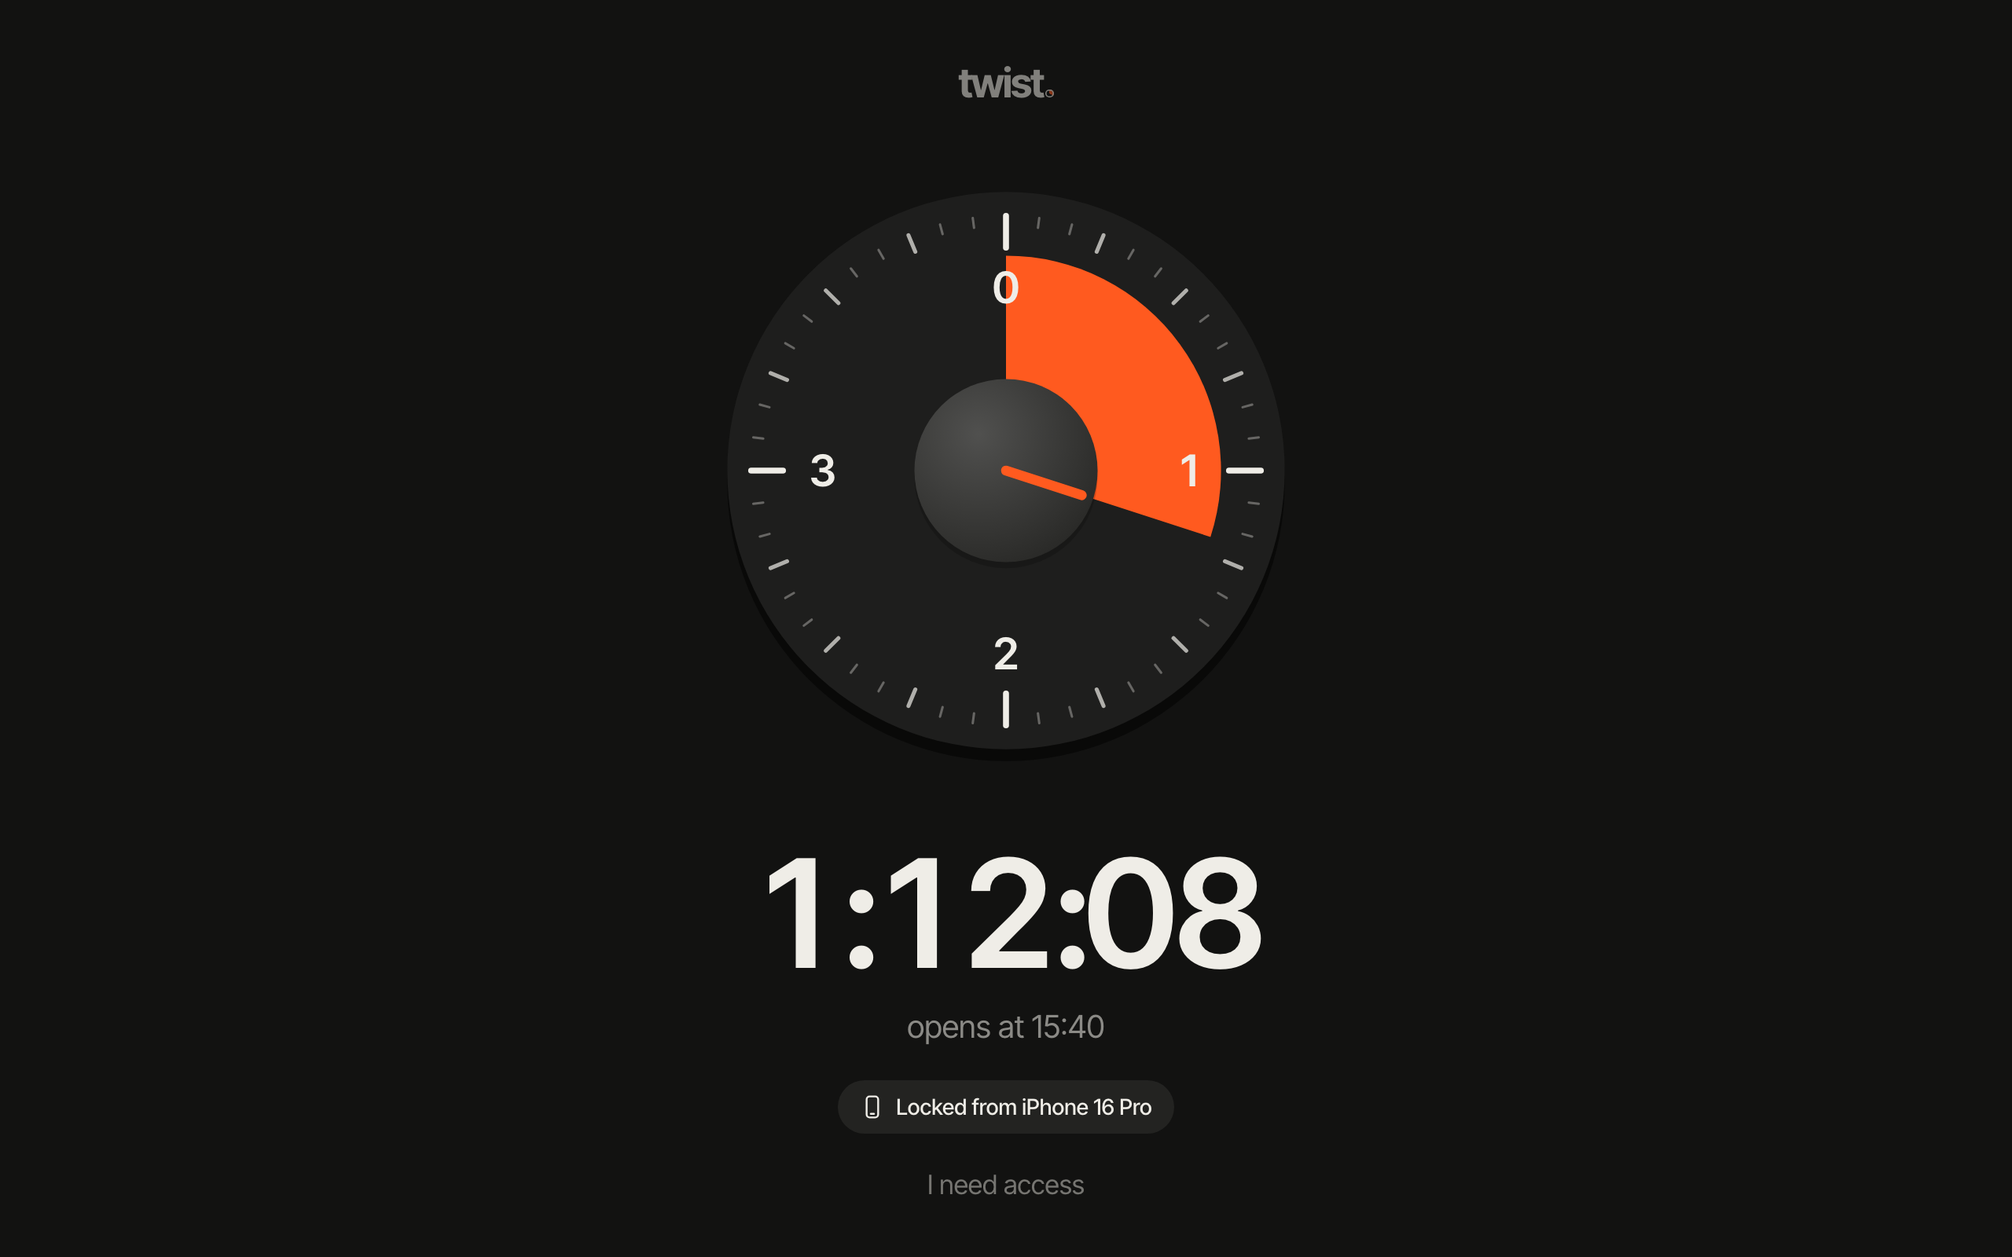
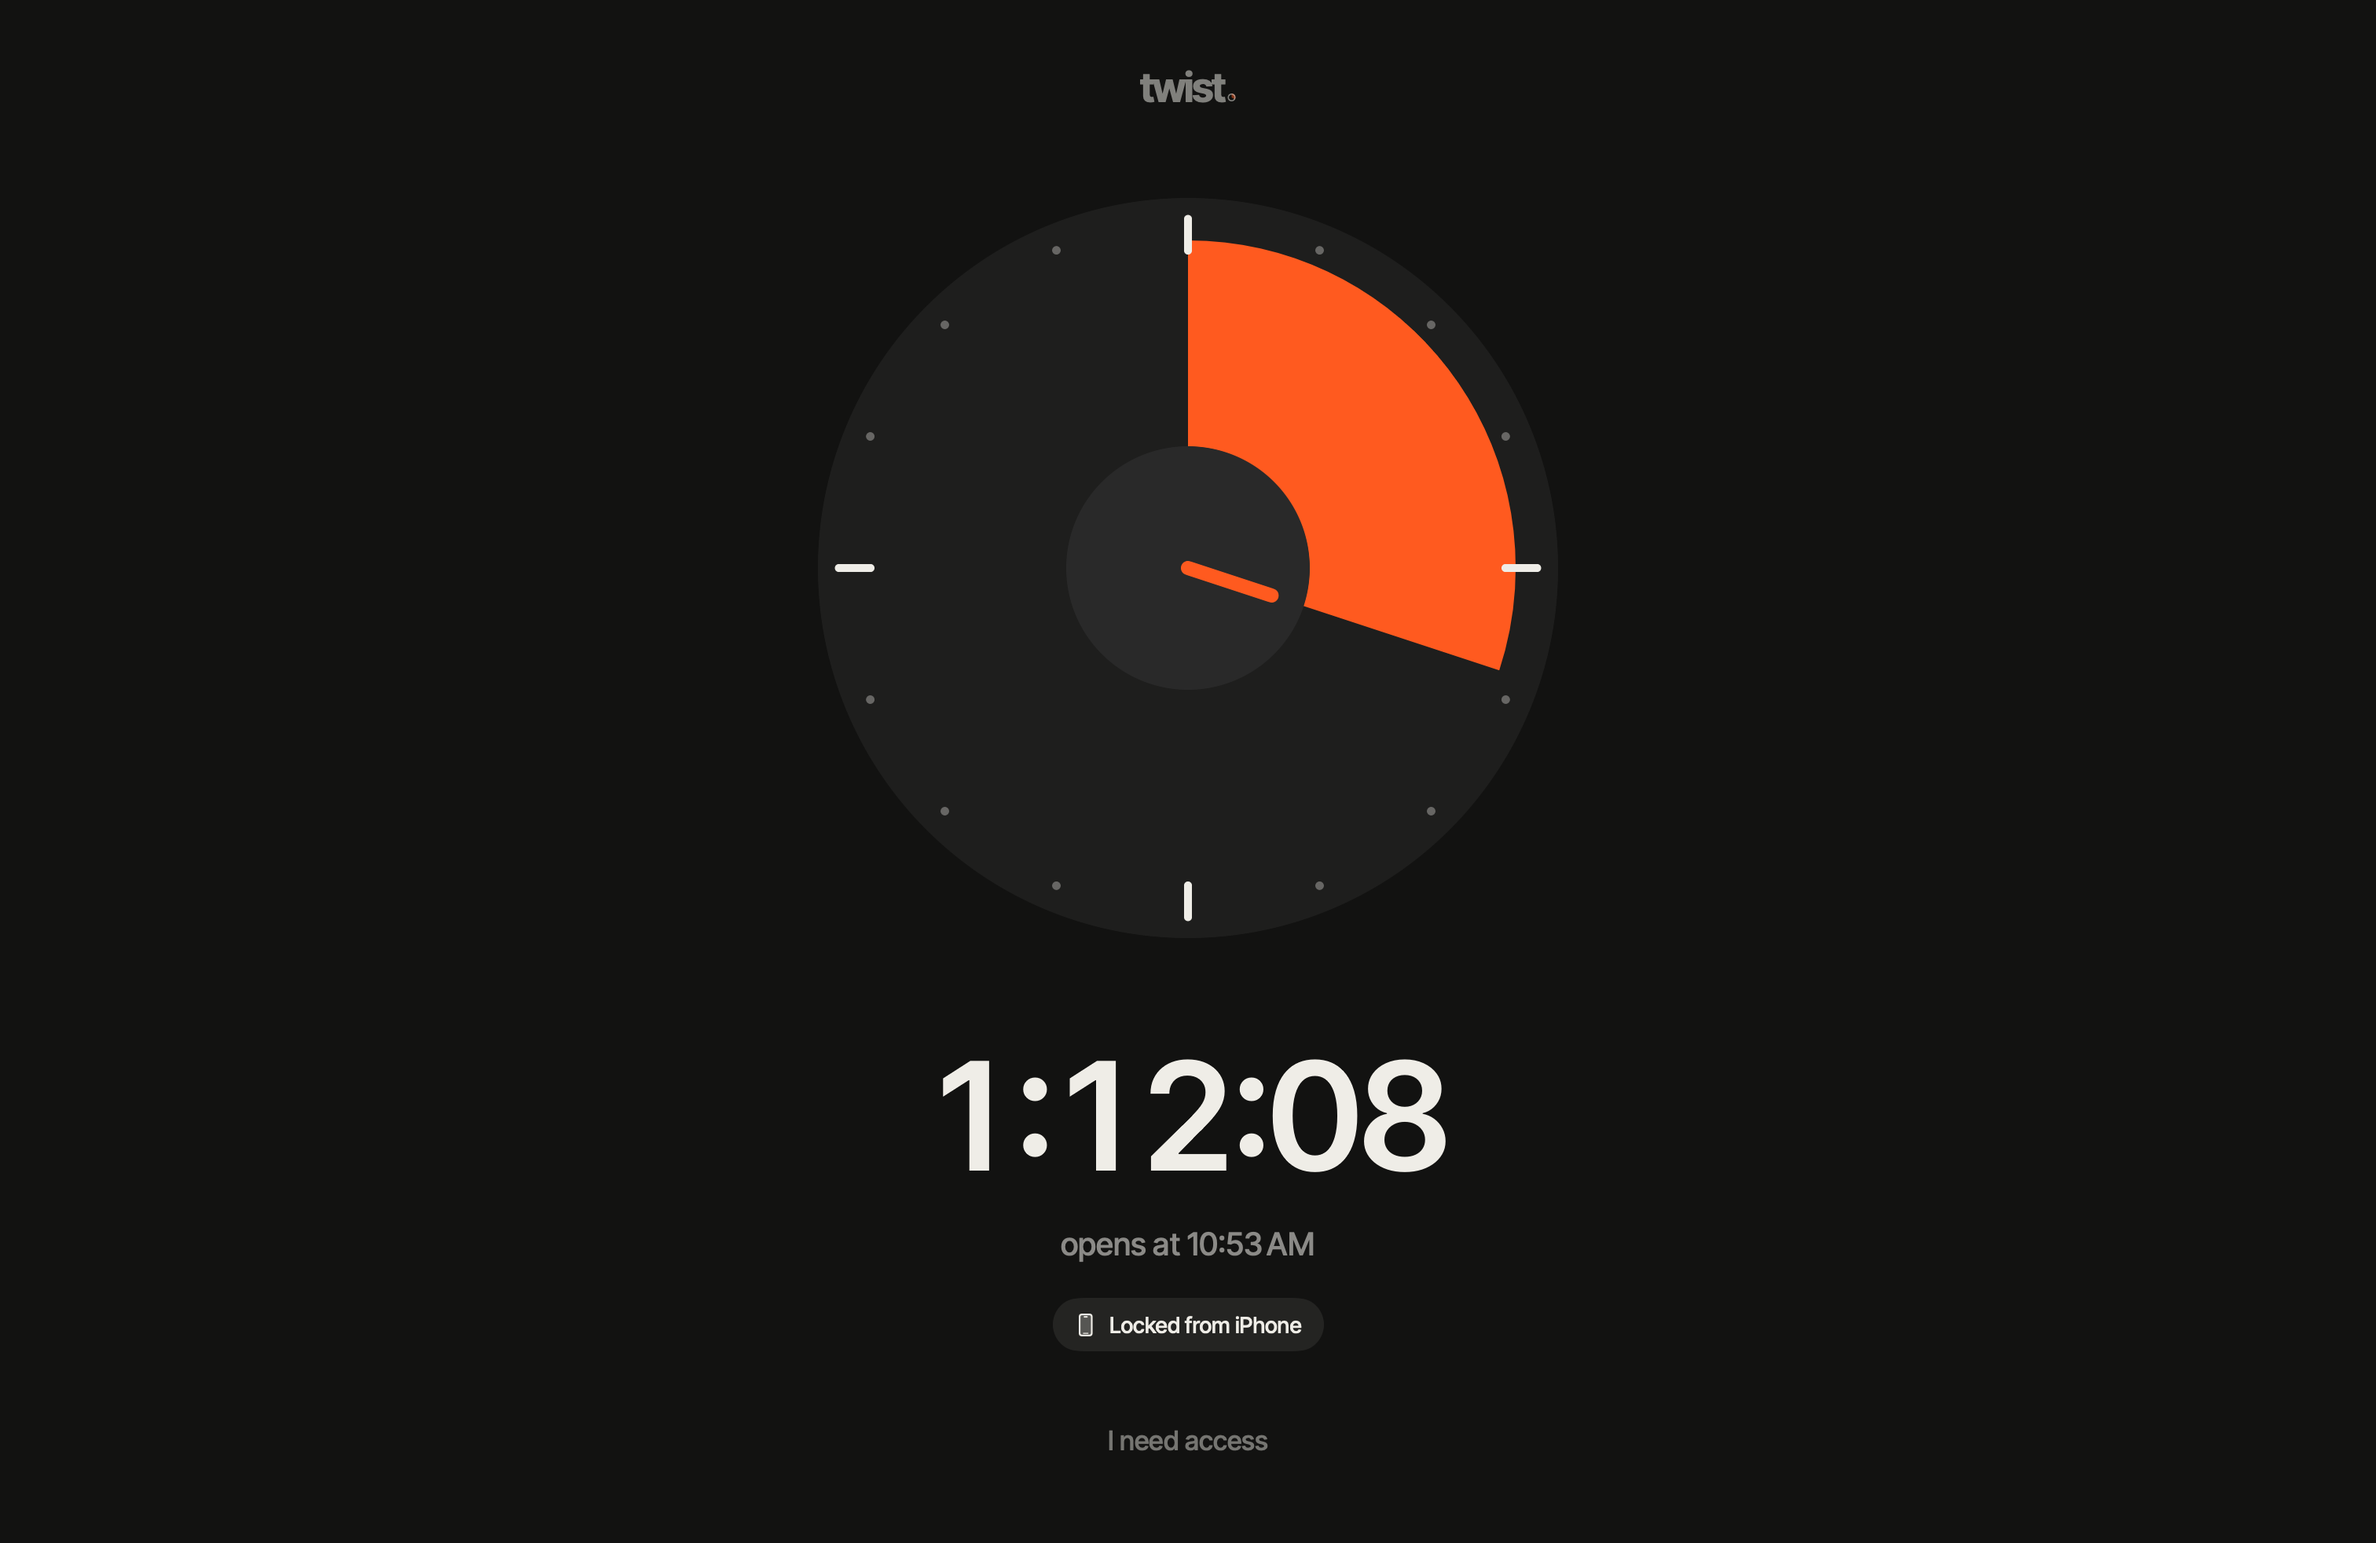
README: real app screenshots with made-up data, cross-device section, build notes
Replace the board renders in docs/screens.png and docs/mac-lock.png with
screenshots of the running app (iOS Simulator) and the Mac lock view
rendered with ImageRenderer. Add docs/devices.png.

diff --git a/README.md b/README.md
@@ -2,40 +2,50 @@
 
 **Twist. Then live.**
 
-Twist is a focus app that works like a kitchen timer. You turn a dial to set how long, let go, and your phone locks down until the time is up. Every app except a short allowlist is shielded and the internet is cut off. A Mac version locks the whole Mac with the same dial, and your devices can lock and unwind together.
+Twist is a focus timer that works like a kitchen timer. You turn a dial to set how long, press Lock, and your iPhone locks down until the time is up. Every app except a short allowlist is shielded and the internet is cut off. A Mac version locks the whole Mac with the same dial, and linked devices lock and unwind together.
 
 There are no profiles, schedules, streaks or stats. You set a time, the phone locks, and you get on with your day.
 
-![Twist on iPhone: set the time, locked, shield, unwind](docs/screens.png)
+![Twist on iPhone: set the time, locked, the Lock Screen countdown, unwind](docs/screens.png)
 
-## Why
-
-Most focus apps are settings screens. You build profiles, pick schedules, tune rules, and in the end it's easier to scroll than to configure. Twist goes the other way and copies an egg timer, an object that needs no explanation. You turn it, it ticks down, and when it rings you're done.
-
-It also has to actually hold. Shields that close with one tap and a "focus mode" you can swipe off don't help much when you're tired. Twist uses the system's own Screen Time machinery and a VPN that drops every packet. The session ends on its own even if the app is killed, and getting out early is deliberately slow.
-
-## Design
-
-The brand is direction B, "Dial": a Braun-style kitchen timer. It uses paper `#EFEDE7`, graphite `#1B1B1A`, a single orange signal colour `#FF5A1F`, and Inter Tight. One full turn of the dial is 4 hours. The orange wedge shows the time you set, then shrinks as the time runs out.
-
-![Brand sheet: wordmark, icon, palette and type](docs/brand.png)
-
-The Mac version uses the same dial, full screen:
+The Mac version uses the same dial, full screen. Here the lock was started from the iPhone:
 
 ![Twist for Mac: the whole Mac locked with the dial countdown](docs/mac-lock.png)
 
-Every screen started as an HTML board in [`design/canvas/`](design/canvas). That folder holds the brand directions (Yolk, Dial, Vault), dial studies, the unwind redesign, and the linked-devices flow. The boards are generated by the scripts in [`design/src/`](design/src). The images above are rendered from those boards.
+These are screenshots of the real app (iOS Simulator, and the Mac views rendered with SwiftUI's `ImageRenderer`) with made-up data. The shield over blocked apps is drawn by iOS through Screen Time, which doesn't run in the Simulator, so it isn't shown.
 
-## Features
+## Why
 
-- **The dial.** Turn it to set anything up to 4 hours. It snaps to 5 minutes and ticks under your finger with haptics. Then you press Lock.
-- **Real lockdown.** Every app except your allowlist is shielded, and apps can't be deleted during a session.
+Most focus apps are settings screens. You build profiles, pick schedules, tune rules, and in the end it's easier to scroll than to configure. Twist copies an egg timer instead, an object that needs no explanation. You turn it, it ticks down, and when it's done you're done.
+
+It also has to actually hold. Shields that close with one tap and a "focus mode" you can swipe off don't help much when you're tired. Twist uses the system's own Screen Time machinery and a VPN that drops every packet. The session ends on its own even if the app is killed, and getting out early is deliberately slow.
+
+## What it does
+
+- **The dial.** One full turn is 4 hours. It snaps to 5 minutes and ticks under your finger with haptics. Lock appears once you've set at least 15 minutes.
+- **Real lockdown.** Every app except your allowlist is shielded, and apps can't be deleted during a session. If you allow a whole category, the shield recognises an app from it the first time it comes up, lets it through, and remembers it.
 - **No internet.** A local "blackhole" VPN routes every packet into a tunnel and drops it.
 - **Branded shield.** Blocked apps show "Locked by Twist" with the time left, in light or dark to match the phone.
-- **Live Activity.** The countdown appears on the Lock Screen and in the Dynamic Island.
+- **Live Activity.** The countdown sits on the Lock Screen and in the Dynamic Island.
 - **Unwind.** If you really need out, tap "I need access" and hold for 45 seconds while the screen fills with orange. Let go and you stay locked.
-- **Twist for Mac.** A full-screen kiosk lock. The countdown shows on the main display and every other display gets a quiet lock screen. To unwind early, hold the mouse button or Space for 45 seconds.
-- **Linked devices ("the ring").** Pair your iPhone, iPad and Mac. When one of them locks, they all lock. When one unwinds, they all open.
+- **Twist for Mac.** A full-screen kiosk lock. The countdown shows on the main display and every other display gets a plain lock. To unwind early, hold the mouse button or Space for 45 seconds.
+- **Linked devices.** Pair your iPhone with a Mac (and other devices running Twist). Lock one and they all lock. Unwind one and they all open.
+
+## Across devices
+
+<img src="docs/devices.png" alt="The Devices sheet: iPhone, MacBook Pro and iPad in one ring" width="320" align="right">
+
+Devices that lock together form a "ring" (`Ring/`):
+
+- Devices find each other over Bonjour (`_twist._tcp`) on the local network. You add one from the Devices sheet while Twist is open on both.
+- Pairing is a Curve25519 key exchange. Both screens show a 4-digit code derived from the shared secret, so a relay in the middle would show different digits. You join only if the codes match.
+- After pairing, every message between members is signed with HMAC-SHA256.
+- The ring's state is one small document: the members, and the current lock (when it ends and which device started it). Each half is last-writer-wins on its own timestamp, so copies can merge in any order.
+- Nearby devices get changes straight over the local network. Devices that aren't nearby get them through a CloudKit private database zone with a push subscription. The Mac also polls iCloud every minute in case a push doesn't arrive.
+- When a lock arrives from another device, the iPhone applies the shields and starts the VPN. If the app is in the background, a silent push wakes it, and the packet tunnel extension also watches iCloud.
+- In a ring the Mac starts at login and stays in the menu bar, so other devices can lock it at any time.
+
+<br clear="right">
 
 ## How it works
 
@@ -45,26 +55,26 @@ The project has seven targets: the iOS app, five iOS extensions, and the Mac app
 | --- | --- |
 | `Twist` (iOS) | The dial, onboarding, allowlist, locked and unwind screens. Asks for Screen Time authorization (FamilyControls), applies shields through `ManagedSettingsStore`, schedules the session, and starts the VPN. |
 | `TwistMonitor` | A `DeviceActivityMonitor`. The session is a DeviceActivity interval, so the system lifts the shields when it ends, even if the app has been killed. |
-| `TwistShieldConfig` | A `ShieldConfigurationDataSource` that draws the branded shield with the time left. |
+| `TwistShieldConfig` | A `ShieldConfigurationDataSource` that draws the branded shield with the time left, and lets through apps from an allowed category. |
 | `TwistShieldAction` | Handles the shield's buttons ("OK", "I need access"). |
 | `TwistTunnel` | An `NEPacketTunnelProvider` that does nothing but drop traffic. During a session every route goes into the tunnel and every packet is discarded. When the session ends it switches to pass-through, so on-demand reconnects can't cut the internet before the app turns the VPN off. In a ring it also watches iCloud while the app isn't running. |
 | `TwistIsland` | The Live Activity: a Lock Screen countdown and the Dynamic Island. |
 | `TwistMac` (macOS) | Kiosk presentation options hide the Dock and menu bar and disable ⌘Tab, Force Quit and log out/restart. Lock windows sit above everything on every Space and take focus back if another app grabs it. ⌘Q is refused during a session. The app registers as a login item for the session, so a forced restart brings the lock back. |
 
-The app and its extensions share session state through an App Group (`Shared/Session.swift`).
+The app and its extensions share session state through an App Group (`Shared/Session.swift`). The Mac app reuses the iOS dial (`App/Views/DialView.swift`) and theme.
 
-**The ring** (`Ring/`) keeps several devices in one shared lock:
+## Design
 
-- Devices find each other over Bonjour (`_twist._tcp`) on the local network.
-- Pairing is a Curve25519 key exchange. Both screens show a 4-digit code derived from the shared secret, so a relay in the middle would show different digits.
-- After pairing, every message between members is signed with HMAC-SHA256.
-- The shared state is a small document in which each half is last-writer-wins on its own timestamp, so copies can merge in any order.
-- Devices that aren't nearby get the document through a CloudKit private database zone, with a push subscription.
+The look is a Braun-style kitchen timer: paper `#EFEDE7`, graphite `#1B1B1A`, one orange signal colour `#FF5A1F`, and Inter Tight. The orange wedge shows the time you set, then shrinks as the time runs out.
+
+![Brand sheet: wordmark, icon, palette and type](docs/brand.png)
+
+Every screen started as an HTML board in [`design/canvas/`](design/canvas): the brand directions (Yolk, Dial, Vault), dial studies, the unwind redesign, the linked-devices flow and the Live Activity. The boards are generated by the scripts in [`design/src/`](design/src).
 
 ## Requirements
 
 - Xcode 16 or later
-- iOS 18 or later on a real device. Screen Time APIs and packet tunnels don't work in the Simulator.
+- iOS 18 or later on a real iPhone. Screen Time APIs and packet tunnels don't work in the Simulator. The iOS target is built for iPhone only for now.
 - macOS 15 or later for Twist for Mac
 - A paid Apple Developer account, which the Family Controls and Network Extension (packet tunnel) entitlements need. Shipping outside development builds also requires Apple's Family Controls distribution approval.
 
@@ -79,7 +89,12 @@ The Xcode project is generated from [`project.yml`](project.yml) with [XcodeGen]
    xcodegen generate
    ```
 3. Open `Twist.xcodeproj`, choose the `Twist` scheme and your iPhone, then run. On first launch, onboarding asks for Screen Time access, the VPN configuration, and your allowlist.
-4. For the Mac, run the `TwistMac` scheme. Debug builds accept `-twistTestSeconds 20` for a short trial lock.
+4. For the Mac, run the `TwistMac` scheme.
+
+Debug builds have two launch arguments for trying things out:
+
+- `-twistTestSeconds 20` (Mac) locks the Mac for 20 seconds.
+- `-twistLiveActivityPreview` (iOS) shows the Live Activity for a made-up 1 h 12 min lock, so you can see it in the Simulator.
 
 ## Credits
 
